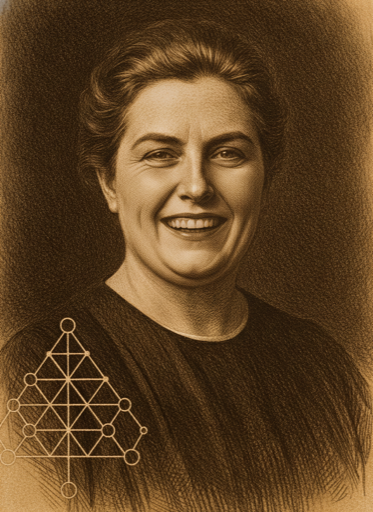
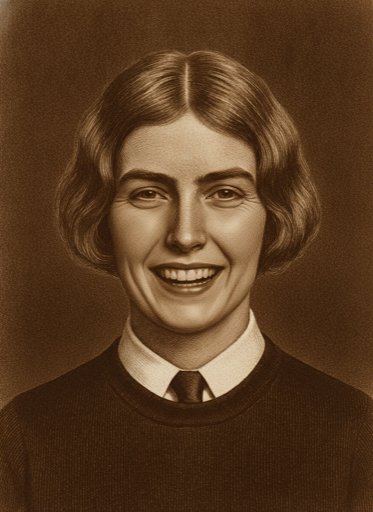
Promote Dion Fortune's regrounded portrait set (#558)
Rachel approved the Wikidata-grounded regeneration ("Fortune is good") —
promote base + happy/thinking/angry from candidates/ to canonical, and
update the STYLE_GUIDE.md changelog entry to reflect actual promotion
rather than pending review.

diff --git a/public/portraits/STYLE_GUIDE.md b/public/portraits/STYLE_GUIDE.md
@@ -33,7 +33,7 @@ AI-generated, proof-of-concept register for this stage of the project. Not commi
 
 ## Changelog
 
-- 2026-09-10 — [#558](https://github.com/msdixon/secret-cabinet/issues/558) human review: Rachel reviewed the five-member batch fix below directly (not just the vignette follow-up) and split it three ways. Scholem and Pauli confirmed as-is, no further changes. Dion Fortune's prop-based fix (a Tree of Life diagram at the frame's edge) was rejected as "hokey" — but unlike the other two rejected members, a real reference photo turned out to exist for her (Wikidata [Q260670](https://www.wikidata.org/wiki/Q260670), a plain public-domain circa-1920s-30s studio portrait on Wikimedia Commons), so she was regenerated grounded in it instead of reverted: center-parted bob-length hair, straight eyebrows, a dark high-necked jumper over a white collar and tie — a tailored, androgynous look distinct from the "refined Englishwoman" register the rejected prompt used — replacing the diagram prop entirely (`scripts/fix-558-fortune-regrounding.js`, following the vignette follow-up's corrected anti-vignette composition suffix from the start; candidates generated and visually confirmed against the roster and the reference photo, landed in `public/portraits/candidates/` for promotion). Corbin's manuscript-page prop and Frieda Harris's tarot-card/paintbrush prop were both rejected as hokey with no equivalent photo available, and reverted to their pre-#558 portraits (base + all three reactions each) — filed as [#574](https://github.com/msdixon/secret-cabinet/issues/574) for a real (non-prop) fix.
+- 2026-09-10 — [#558](https://github.com/msdixon/secret-cabinet/issues/558) human review: Rachel reviewed the five-member batch fix below directly (not just the vignette follow-up) and split it three ways. Scholem and Pauli confirmed as-is, no further changes. Dion Fortune's prop-based fix (a Tree of Life diagram at the frame's edge) was rejected as "hokey" — but unlike the other two rejected members, a real reference photo turned out to exist for her (Wikidata [Q260670](https://www.wikidata.org/wiki/Q260670), a plain public-domain circa-1920s-30s studio portrait on Wikimedia Commons), so she was regenerated grounded in it instead of reverted: center-parted bob-length hair, straight eyebrows, a dark high-necked jumper over a white collar and tie — a tailored, androgynous look distinct from the "refined Englishwoman" register the rejected prompt used — replacing the diagram prop entirely (`scripts/fix-558-fortune-regrounding.js`, following the vignette follow-up's corrected anti-vignette composition suffix from the start; candidates generated, visually confirmed against the roster and the reference photo, approved by Rachel, and promoted). Corbin's manuscript-page prop and Frieda Harris's tarot-card/paintbrush prop were both rejected as hokey with no equivalent photo available, and reverted to their pre-#558 portraits (base + all three reactions each) — filed as [#574](https://github.com/msdixon/secret-cabinet/issues/574) for a real (non-prop) fix.
 - 2026-09-10 — [#558](https://github.com/msdixon/secret-cabinet/issues/558) follow-up: Scholem's and Pauli's regenerated base portraits (below) came back with a pronounced radial vignette — a dark oval halo hugging the head/shoulders lightening sharply to a bright cream tone in all four corners, visibly different from the rest of the roster's flat edge-to-edge background (e.g. `jung.png`, `corbin.png`). Root cause: the #558 fix's base-portrait composition suffix said only "plain dark unornamented background," missing the explicit "no vignette or gradient, matte and uniform edge to edge" clause `REACTION_STYLE_SUFFIX` (`src/portrait-generation.js`) already carries since the #450 batch-2 fix documented the same failure mode there. The three reaction images inherited the same vignette despite that existing ban, because they were anchored via `referenceImages` to the already-vignetted base with an instruction to match its background exactly — the match-reference clause outweighed the ban. Fixed by regenerating base + all three reactions for both members (`scripts/fix-558-vignette-fixup.js`), appending an explicit anti-vignette clause to the base prompt itself (subject/distinguishing-detail text unchanged from the #558 fix below). Confirmed on review: both bases and all six reactions now hold one flat dark tone corner-to-corner, matching the rest of the roster, with likeness and expression unaffected.
 - 2026-09-10 — [#558](https://github.com/msdixon/secret-cabinet/issues/558): audited all 38 base portraits side-by-side for cross-member visual *distinctiveness* — distinct from [#541](https://github.com/msdixon/secret-cabinet/issues/541)/[#546](https://github.com/msdixon/secret-cabinet/issues/546)'s likeness-*accuracy*-against-a-real-photo work, this is about whether members with no shared reference photo still read as visibly different people from each other. Root cause: [BATCH-1-PROMPTS.md](BATCH-1-PROMPTS.md)'s "Photographed" tier template gives most members only attire + mood ("glasses, formal suit, thoughtful reserved expression") with zero physical/facial description, so two members sharing an era/profession/attire had nothing for the generator to differentiate on. Five members converged most severely: corbin, scholem, and pauli (all "glasses, formal suit, [adjective] expression," near-identical structure) and frieda-harris/dion-fortune (both "refined/formal Englishwoman... period dress" with no distinguishing feature). Fixed at the prompt level (text-only — deliberately not the `referenceImages`/`buildLikenessAnchoredBasePrompt` anchoring mechanism #541/#546 used) via `scripts/fix-558-portrait-distinctiveness.js`: each of the five got a concrete, non-generic distinguishing detail grounded in real documented facts rather than invented — Scholem's and Pauli's facial descriptions (no glasses on either, contra the original prompts; Scholem's widow's-peak/swept-back hair; Pauli's heavy-set jowls and receded hairline) came from directly inspecting their real photographs (Wikimedia Commons for Scholem; the same `public/portraits/likeness-refs/pauli.jpg` already sourced for #546, read for description only — Pauli's base portrait itself is NOT anchored to it, since Rachel explicitly rejected that as a base-portrait anchor during #546's review); Corbin, Harris, and Fortune have no readily available plain photo, so their differentiation instead comes from a concrete biographical trade-marker prop, the same device [WAVE-4-PROMPTS.md](WAVE-4-PROMPTS.md) already established for character-study figures (Böhme's awl, Paracelsus's sword hilt) — Corbin's Perso-Arabic manuscript (decades translating Islamic mystical philosophy between Paris, Istanbul, and Tehran), Harris's paintbrush and painted tarot card (she personally painted all 78 Thoth Tarot cards), Fortune's Tree of Life diagram (founder of the Society of the Inner Light, author of *The Mystical Qabalah*). All three reactions regenerated per member, anchored to each new base. The `thinking` reaction needed a second pass across all five — read too close to each member's own neutral base on the first try, the same recurring failure [#450](https://github.com/msdixon/secret-cabinet/issues/450) batch 3 already documented for three of these same members (corbin, frieda-harris, dion-fortune) against their old base portraits; fixed the same way, layering an explicit physical pose (head-turn, gaze cast away from the viewer) on top of the expression text (`scripts/fix-558-thinking-fixup.js`). Confirmed on review: all five read clearly distinct from each other and from neighboring roster members (adorno, jung, warburg, blavatsky, moina-mathers, yates) in a side-by-side comparison. Deliberately deferred, not fixed in this pass: three moderate-severity clusters (abulafia/al-hallaj, arabi/khaldun, eckhart/llull) that share the same generic-template root cause but read as a smaller gap — filed as [#569](https://github.com/msdixon/secret-cabinet/issues/569) for a follow-up pass. `draftPortraitPrompt` (`src/routes/member.js`, the automated new-member prompt-drafting flow since #259/#435) already requires one concrete visual distinguishing detail, so this root cause is concentrated in legacy batch-1 content, not an ongoing risk for members added going forward.
 - 2026-09-10 — [#571](https://github.com/msdixon/secret-cabinet/issues/571): revisited the roster-wide bordered-vs-borderless split #531 deliberately left as-is, and decided to standardize on borderless rather than continue allowing per-member variation — reasoning: the room's billboards are meant to read as avatars/presences, and a border/no-border mismatch is most visible exactly when it matters least to have one, during convening with multiple members seated at once. Updated the border/frame rule above to mandate borderless roster-wide. 17 members currently carry a border and are tracked for conversion under #571; this entry covers the policy change only, not the conversion itself.
